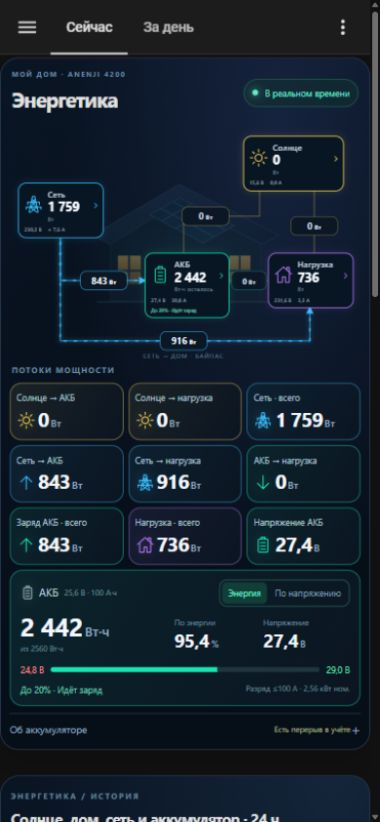
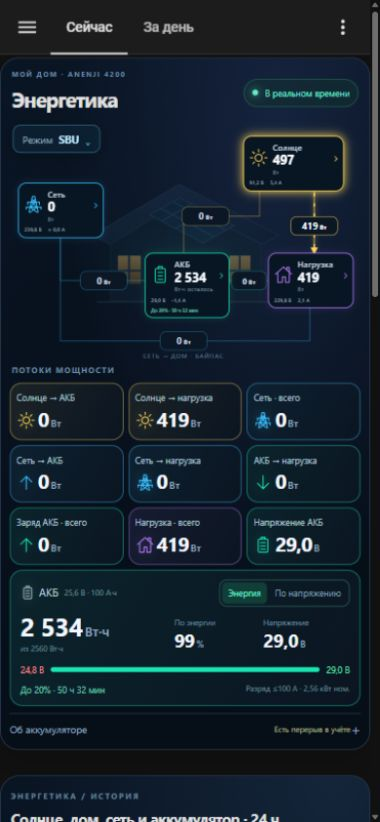
Add inverter priority picker and ANENJI mode metadata

diff --git a/energetika-card.js b/energetika-card.js
@@ -1,4 +1,4 @@
-import './energetika-history.js?v=2.2.2';
+import './energetika-history.js?v=2.3.0';
 
 export function formatRuntime(minutes) {
   if (!Number.isFinite(minutes) || minutes < 0) return '—';
@@ -7,11 +7,21 @@ export function formatRuntime(minutes) {
 }
 /* Energetika 2.2 — local Home Assistant card, no external dependencies. */
 const ROOT = 'sensor.anenji_4200_protocol_1_';
+const SOURCE_MODES = [
+  {code:'UTI', option:'Utility First (UTI)', description:'Сеть в приоритете'},
+  {code:'SOL', option:'Solar First (SOL)', description:'Солнце в приоритете'},
+  {code:'SBU', option:'Solar-Battery-Utility (SBU)', description:'Солнце → АКБ → сеть'},
+  {code:'SUB', option:'Solar-Utility-Battery (SUB)', description:'Солнце → сеть → АКБ'},
+  {code:'SUF', option:'Solar-Utility-Feed (SUF)', description:'Солнце + сеть · возможна отдача в сеть'},
+];
+const escapeHtml = value => String(value??'').replace(/[&<>"']/g,c=>({'&':'&amp;','<':'&lt;','>':'&gt;','"':'&quot;',"'":'&#39;'}[c]));
 const ENTITIES = {
   grid_voltage: ROOT + 'grid_voltage', grid_current: 'sensor.energetika_grid_current_estimate',
   solar_voltage: ROOT + 'pv_voltage', solar_current: ROOT + 'pv_current',
   load_voltage: ROOT + 'output_voltage', load_current: ROOT + 'output_current',
   runtime: 'sensor.energetika_battery_runtime_to_reserve',
+  mode_select: 'select.anenji_4200_protocol_1_output_source_priority',
+  output_priority: ROOT + 'output_source_priority', control_mode: ROOT + 'control_mode',
   grid: ROOT + 'grid_power', solar: ROOT + 'pv_power', load: ROOT + 'load_power',
   battery: 'sensor.energetika_battery_remaining', percent: 'sensor.energetika_battery_percent_energy',
   voltage: ROOT + 'battery_voltage', voltage_min: ROOT + 'battery_under_voltage_off_grid',
@@ -52,6 +62,7 @@ class EnergetikaCard extends HTMLElement {
   getGridOptions() { return {columns: 12, min_columns: 6}; }
   set hass(hass) { this._hass = hass; this._update(); }
   connectedCallback() { if (!this.shadowRoot.firstChild) this._render(); }
+  disconnectedCallback() { clearTimeout(this._modeTimeout); }
   _node(key, name, ic, x, y, w, color, unit = 'Вт') {
     return `<g class="node ${color}" data-key="${key}" role="button" tabindex="0" aria-label="${name}: открыть историю" transform="translate(${x} ${y})">
       <rect class="node-bg" width="${w}" height="${key === 'battery' ? 132 : 112}" rx="16"/>
@@ -86,8 +97,11 @@ class EnergetikaCard extends HTMLElement {
       @media(max-width:520px){.shell{padding:11px 9px 8px;border-radius:19px}.tiles{grid-template-columns:repeat(3,minmax(0,1fr));gap:5px}.tile{position:relative;padding:7px 6px;min-height:59px;border-radius:12px;display:block}.tile>.icon{position:absolute;width:18px;height:21px;left:7px;bottom:9px}.tile-body{gap:6px}.tile-title{font-size:9px;line-height:1.2;white-space:nowrap;color:#adc4d3}.tile-body strong{font-size:20px;padding-left:22px;line-height:1.1}.tile-body strong.long-value{font-size:16px}.unit{margin-left:2px}.diagram{margin:0 auto;width:100%;max-height:255px}.section-label{font-size:8px;margin:1px 2px 6px;letter-spacing:1.3px}h1{font-size:21px}.eyebrow{font-size:7px;letter-spacing:1.5px}.live{font-size:9px}.battery-summary{display:block;grid-column:1/-1;grid-row:4;padding:9px 10px;border-radius:13px;min-height:0}.battery-top{margin-bottom:6px;gap:4px}.battery-title{font-size:11px;gap:4px}.battery-title .icon{width:15px;height:19px}.nameplate{font-size:8px;margin-left:2px}.mode-switch button{font-size:9px;padding:4px 6px}.battery-layout{grid-template-columns:1.35fr .75fr .8fr;gap:8px}.battery-main .plain-value strong{font-size:26px}.battery-main .capacity{font-size:8px;margin-top:1px}.battery-layout .mini>span{font-size:8px}.battery-layout .mini strong{font-size:18px}.voltage-limits{margin-top:7px;font-size:9px;gap:7px}.battery-bottom{margin-top:6px;font-size:8px;gap:4px}.battery-bottom .runtime{font-size:9px}.battery-spec{font-size:8px}.note{display:none}details{margin-top:7px;padding-top:4px;font-size:10px}summary::after{font-size:15px}footer{display:none}.calibration{font-size:9px;line-height:1.3;padding:4px 7px;margin-top:5px}.last-full{display:block;margin:8px 0}.main-status{font-size:8px}}
       @media(max-width:365px){.shell{padding:8px 7px}.tile-title{font-size:8px}.tile-body strong{font-size:18px}.tile{min-height:55px}.diagram{max-height:225px}.nameplate{font-size:7px}.mode-switch button{padding:4px;font-size:8px}.battery-main .plain-value strong{font-size:23px}.battery-layout .mini strong{font-size:16px}.battery-title{font-size:10px}.battery-spec{font-size:7px}.battery-layout{gap:5px}.battery-bottom .runtime{font-size:8px}}
       @media(max-width:520px) and (max-height:740px){.shell{padding-top:8px}.diagram{max-height:200px}.tile{min-height:52px;padding:6px}.tile-body{gap:4px}.battery-summary{padding:8px 9px}.battery-top{margin-bottom:4px}.voltage-limits{margin-top:5px}.battery-bottom{margin-top:4px}.calibration{font-size:8px}}
+      .diagram-wrap{position:relative}.inverter-mode{position:absolute;left:5px;top:8px;z-index:4}.source-trigger{display:flex;align-items:center;gap:9px;border:1px solid #2b5972;background:#0b2032ed;border-radius:10px;padding:8px 11px;font-size:12px;color:#89a7bb;min-height:33px;box-shadow:0 3px 14px #0003}.source-trigger strong{color:#bde9ff;font-size:13px}.source-trigger .caret{color:#51b9df}.source-trigger[aria-expanded=true]{border-color:#38bfff}.mode-popover{position:absolute;left:0;top:42px;width:min(310px,calc(100vw - 36px));padding:13px;border:1px solid #335c75;border-radius:17px;background:#0b1929fa;box-shadow:0 15px 45px #000a;color:#d8e7f3;backdrop-filter:blur(16px)}.mode-popover[hidden]{display:none}.mode-heading{display:flex;align-items:center;justify-content:space-between;font-size:13px;font-weight:650;margin-bottom:10px}.mode-close{background:none;border:0;color:#93adbf;font-size:21px;padding:0 4px}.source-options{display:grid;gap:5px}.source-option{display:grid;grid-template-columns:44px 1fr 12px;align-items:center;gap:8px;border:1px solid #263e52;background:#101f31;border-radius:9px;padding:9px 10px;text-align:left;color:#abc1d2;font-size:11px;min-height:41px}.source-option strong{color:#e6f4ff;font-size:13px}.source-option[aria-selected=true]{border-color:#29c8c5;background:#123c3e}.source-option:disabled{cursor:default;opacity:.6}.source-option .check{color:#36dfb8}.mode-message{font-size:10px;line-height:1.5;color:#8eabbf;margin:9px 0;min-height:15px}.mode-message.error{color:#f1a094}.mode-message.success{color:#65dfb8}.mode-apply{width:100%;border:1px solid #298d9c;background:#12434e;color:#a1eff4;border-radius:9px;padding:9px;font-size:11px;font-weight:600}.mode-apply:disabled{opacity:.4;cursor:default}.mode-note{font-size:10px;line-height:1.4;color:#a6b9c7;margin:0 0 8px}.source-option small{font-size:10px;color:#83a3b7}.mode-message:empty{display:none}
+      @media(max-width:520px){.inverter-mode{left:3px;top:5px}.source-trigger{font-size:10px;padding:5px 9px;gap:6px;min-height:28px;border-radius:8px}.source-trigger strong{font-size:11px}.mode-popover{top:34px;padding:11px}.source-option{padding:8px 9px;font-size:10px;min-height:39px}.mode-heading{font-size:12px}.mode-message{font-size:10px}}
     </style>
     <ha-card class="shell"><header><div><div class="eyebrow">МОЙ ДОМ · ANENJI 4200</div><h1>Энергетика</h1><div class="sub">Солнце, сеть и энергия вашего дома</div></div><span class="live" data-live><span class="dot"></span><span data-live-text>Подключение</span></span></header>
+    <div class="diagram-wrap"><div class="inverter-mode"><button class="source-trigger" data-source-open aria-haspopup="dialog" aria-expanded="false"><span>Режим</span><strong data-source-current>—</strong><span class="caret">⌄</span></button><div class="mode-popover" data-source-popover role="dialog" aria-label="Режим питания инвертора" hidden><div class="mode-heading">Приоритет питания<button class="mode-close" data-source-close aria-label="Закрыть выбор режима">×</button></div><div class="source-options" data-source-options role="listbox" aria-label="Доступные режимы"></div><div class="mode-message" data-source-message role="status"></div><p class="mode-note" data-source-note hidden>Переключение изменит источник питания дома.</p><button class="mode-apply" data-source-apply disabled>Применить режим</button></div></div>
     <svg class="diagram" viewBox="0 0 720 500" aria-label="Схема потоков энергии">
       <defs>${['solar','grid','battery'].map(c=>`<marker id="arrow-${c}" markerWidth="5" markerHeight="5" refX="4" refY="2.5" orient="auto"><path d="M0 0 5 2.5 0 5Z" fill="var(--${c})"/></marker>`).join('')}
       <linearGradient id="roof" x2="1" y2="1"><stop stop-color="#284361"/><stop offset="1" stop-color="#0c1829"/></linearGradient><linearGradient id="window" x2="0" y2="1"><stop stop-color="#ffc65e"/><stop offset="1" stop-color="#8e5b21"/></linearGradient><radialGradient id="halo"><stop stop-color="#22a891" stop-opacity=".12"/><stop offset="1" stop-color="#081421" stop-opacity="0"/></radialGradient></defs>
@@ -103,7 +117,7 @@ class EnergetikaCard extends HTMLElement {
       ${this._node('solar','Солнце','sun',480,34,205,'solar')}
       ${this._node('battery','АКБ','battery',278,274,172,'battery','Вт·ч осталось')}
       ${this._node('load','Нагрузка','home',531,274,174,'home')}
-    </svg>
+    </svg></div>
     <div class="section-label">ПОТОКИ МОЩНОСТИ <span style="color:#3f5e76">/ НАЖМИТЕ НА ЧИСЛО ДЛЯ ИСТОРИИ</span></div>
     <div class="tiles">
       ${this._tile('pv_battery','Солнце → АКБ','Заряд от солнечных панелей','sun','solar')}
@@ -136,6 +150,11 @@ class EnergetikaCard extends HTMLElement {
       try { localStorage.setItem('energetika.battery-mode',this._batteryMode); } catch {}
       this._update();
     }));
+    root.querySelector('[data-source-open]').addEventListener('click',()=>this._toggleSourceMenu());
+    root.querySelector('[data-source-close]').addEventListener('click',()=>this._closeSourceMenu());
+    root.querySelector('[data-source-apply]').addEventListener('click',()=>this._applySourceMode());
+    root.addEventListener('keydown',event=>{if(event.key==='Escape')this._closeSourceMenu();});
+    root.addEventListener('click',event=>{if(!event.composedPath().includes(root.querySelector('.inverter-mode')))this._closeSourceMenu(false);});
     root.querySelector('[data-calibrate]').addEventListener('click',()=>this._calibrate());
     this._update();
   }
@@ -150,6 +169,7 @@ class EnergetikaCard extends HTMLElement {
   _update() {
     if (!this._hass || !this.shadowRoot.firstChild) return;
     const r = this.shadowRoot, states = this._hass.states;
+    this._updateSourceMode();
     r.querySelectorAll('[data-value]').forEach(el=>{
       const key=el.dataset.value,n=this._number(key);
       const digits=/voltage|current|percent/.test(key)?1:0;
@@ -190,6 +210,80 @@ class EnergetikaCard extends HTMLElement {
     r.querySelector('[data-last-full]').textContent=last?`Последний полный заряд: ${new Date(last).toLocaleString('ru-RU',{day:'2-digit',month:'2-digit',hour:'2-digit',minute:'2-digit'})}`:'Полный заряд ещё не подтверждён';
     const updated=states[this._entities.load]?.last_updated;
     r.querySelector('[data-updated]').textContent=updated?`Данные · ${new Date(updated).toLocaleTimeString('ru-RU')}`:'Ожидание данных';
+  }
+  _sourceContext() {
+    const states=this._hass?.states||{},entity=this._entities.mode_select,native=states[entity];
+    const available=native&&!['unknown','unavailable',''].includes(native.state);
+    const current=available?native.state:states[this._entities.output_priority]?.state;
+    const options=Array.isArray(native?.attributes?.options)?native.attributes.options.filter(v=>typeof v==='string'):[];
+    let reason='';
+    if(this._hass?.connected===false)reason='Нет соединения с Home Assistant.';
+    else if(states[this._entities.control_mode]?.state==='read_only')reason='В EyeBond Local включён режим «Только чтение». Выбор пока недоступен.';
+    else if(!available)reason='Управление режимом пока недоступно в интеграции.';
+    return {entity,current,options,reason,writable:!reason&&typeof this._hass?.callService==='function'};
+  }
+  _sourceCode(option) {
+    const found=SOURCE_MODES.find(mode=>mode.option===option||mode.code===option);
+    if(found)return found.code;
+    const legacy={'Utility-PV-Battery':'UTI','PV-Utility-Battery':'SOL','PV-Battery-Utility':'SBU'};
+    if(legacy[option])return legacy[option];
+    const unknown=/^Unknown \((\d)\)$/.exec(option||'');
+    if(unknown&&SOURCE_MODES[Number(unknown[1])])return SOURCE_MODES[Number(unknown[1])].code;
+    return ['unknown','unavailable','',undefined].includes(option)?'Нет данных':option;
+  }
+  _toggleSourceMenu() {
+    const popover=this.shadowRoot.querySelector('[data-source-popover]');
+    if(!popover.hidden){this._closeSourceMenu();return;}
+    this._sourceDraft=this._sourceContext().current;this._sourceFeedback=null;
+    popover.hidden=false;this.shadowRoot.querySelector('[data-source-open]').setAttribute('aria-expanded','true');
+    this._updateSourceMode();
+    this.shadowRoot.querySelector('.source-option:not(:disabled)')?.focus();
+  }
+  _closeSourceMenu(focus=true) {
+    const popover=this.shadowRoot.querySelector('[data-source-popover]');
+    if(popover.hidden)return;
+    popover.hidden=true;const button=this.shadowRoot.querySelector('[data-source-open]');button.setAttribute('aria-expanded','false');
+    if(focus)button.focus();
+  }
+  _updateSourceMode() {
+    const r=this.shadowRoot,context=this._sourceContext();
+    r.querySelector('[data-source-current]').textContent=this._modePending?'Переключение…':this._sourceCode(context.current);
+    if(this._modePending&&context.current===this._modePending.option){
+      clearTimeout(this._modeTimeout);this._modePending=null;this._sourceFeedback={kind:'success',text:'Инвертор подтвердил режим '+this._sourceCode(context.current)+'.'};
+      r.querySelector('[data-source-current]').textContent=this._sourceCode(context.current);
+    }
+    if(r.querySelector('[data-source-popover]').hidden)return;
+    const rows=SOURCE_MODES.map(mode=>({...mode,enabled:context.writable&&context.options.includes(mode.option)}));
+    for(const option of context.options)if(!rows.some(row=>row.option===option))rows.push({code:this._sourceCode(option),option,description:option,enabled:context.writable});
+    const signature=JSON.stringify([rows,this._sourceDraft,context.current,!!this._modePending]);
+    if(signature!==this._modeRows){
+      this._modeRows=signature;
+      r.querySelector('[data-source-options]').innerHTML=rows.map((row,index)=>`<button class="source-option" data-source-index="${index}" role="option" aria-selected="${row.option===this._sourceDraft}" ${!row.enabled||this._modePending?'disabled':''}><strong>${escapeHtml(row.code)}</strong><span>${escapeHtml(row.description)}</span><span class="check">${row.option===context.current?'✓':''}</span></button>`).join('');
+      r.querySelectorAll('[data-source-index]').forEach(button=>button.addEventListener('click',()=>{this._sourceDraft=rows[Number(button.dataset.sourceIndex)].option;this._sourceFeedback=null;this._updateSourceMode();}));
+    }
+    const message=r.querySelector('[data-source-message]');
+    message.className='mode-message '+(this._sourceFeedback?.kind||'');
+    message.textContent=this._modePending?'Ожидание подтверждения инвертора…':context.reason||this._sourceFeedback?.text||'';
+    const note=r.querySelector('[data-source-note]');
+    note.hidden=!context.writable||this._sourceDraft===context.current;
+    note.textContent=this._sourceCode(this._sourceDraft)==='SUF'?'SUF допускает отдачу избытка энергии в сеть.':'Переключение изменит источник питания дома.';
+    const apply=r.querySelector('[data-source-apply]');
+    apply.disabled=!context.writable||!!this._modePending||!context.options.includes(this._sourceDraft)||this._sourceDraft===context.current;
+    apply.textContent=this._modePending?'Переключение…':'Применить '+this._sourceCode(this._sourceDraft||context.current);
+  }
+  async _applySourceMode() {
+    const context=this._sourceContext(),option=this._sourceDraft;
+    if(!context.writable||this._modePending||!context.options.includes(option)||option===context.current)return;
+    this._modePending={option};this._sourceFeedback=null;this._updateSourceMode();
+    this._modeTimeout=setTimeout(()=>{if(!this._modePending)return;this._modePending=null;this._sourceFeedback={kind:'error',text:'Подтверждение не получено. Проверьте текущий режим перед повтором.'};this._updateSourceMode();},15000);
+    try {
+      await this._hass.callService('select','select_option',{entity_id:context.entity,option});
+      this._updateSourceMode();
+    }catch(error){
+      clearTimeout(this._modeTimeout);this._modePending=null;
+      this._sourceFeedback={kind:'error',text:'Режим не подтверждён. '+String(error?.message||'Проверьте соединение с инвертором.')};
+      this._updateSourceMode();
+    }
   }
   _moreInfo(key) {
     const entityId=this._entities[key];if(!entityId)return;

diff --git a/patches/install_modes.py b/patches/install_modes.py
@@ -1,0 +1,75 @@
+"""Backport output-priority names to the installed EyeBond Local 0.1.53 model.
+
+Only model metadata is changed. No control policy or inverter register is written.
+Codes 0..3 follow current upstream SMG schema. Code 4 (SUF) is confirmed in
+this owner's LCD menu and upstream SmartESS 0925 profile, plus ANENJI manual.
+"""
+import argparse
+from datetime import datetime, timezone
+import hashlib
+import json
+from pathlib import Path
+import shutil
+
+LABELS = ["Utility First (UTI)", "Solar First (SOL)", "Solar-Battery-Utility (SBU)", "Solar-Utility-Battery (SUB)", "Solar-Utility-Feed (SUF)"]
+DESCRIPTIONS = ["Utility powers the load first.", "Solar powers the load first.", "Solar, then battery, then utility.", "Solar, then utility, then battery.", "Solar and utility; surplus solar may feed into the grid."]
+
+
+def replacements(base):
+    profile = "profiles/modbus_smg/models/anenji_4200_protocol_1.variant.json"
+    schema = "register_schemas/modbus_smg/models/anenji_4200_protocol_1.json"
+    result = {}
+    for relative in [profile, schema]:
+        original = (base / relative).read_text(encoding="utf-8")
+        doc = json.loads(original)
+        if relative == profile:
+            doc["capabilities"] = [{"key": "output_source_priority", "choices": [
+                {"value": code, "label": label, "order": code, "description": DESCRIPTIONS[code]}
+                for code, label in enumerate(LABELS)
+            ]}]
+        else:
+            doc["enum_tables"] = {"output_source_priority": {str(i): name for i, name in enumerate(LABELS)}}
+        result[relative] = (original, json.dumps(doc, ensure_ascii=False, indent=2) + "\n")
+    return result
+
+
+# SHA-256 of the normalized UTF-8 source from tag v0.1.53.
[1 lines of base64/hex data omitted]
+
+
+def install(config):
+    root = Path(config).resolve(strict=True)
+    if not (root / "configuration.yaml").is_file():
+        raise SystemExit("Not a Home Assistant configuration directory")
+    base = root / "custom_components/eybond_local"
+    changes = {}
+    for relative, (original, updated) in replacements(base).items():
+        path = base / relative
+        if path.is_symlink():
+            raise SystemExit("Refusing symlink: " + str(path))
+        if original == updated:
+            continue
+        if hashlib.sha256(original.encode()).hexdigest() != EXPECTED[relative]:
+            raise SystemExit("Unexpected source version; no files modified: " + relative)
+        changes[path] = updated
+    if not changes:
+        print("Mode metadata already installed; no changes")
+        return
+    backup = root / ("energetika-mode-backup-" + datetime.now(timezone.utc).strftime("%Y%m%dT%H%M%SZ"))
+    backup.mkdir()
+    for path in changes:
+        destination = backup / path.relative_to(root)
+        destination.parent.mkdir(parents=True, exist_ok=True)
+        shutil.copy2(path, destination)
+    for path, updated in changes.items():
+        temporary = path.with_suffix(path.suffix + ".energetika-tmp")
+        temporary.write_text(updated, encoding="utf-8")
+        temporary.replace(path)
+    print("Mode metadata installed; backup:", backup)
+    print("Restart Home Assistant to clear metadata caches. Control policy is unchanged.")
+
+
+if __name__ == "__main__":
+    parser = argparse.ArgumentParser(description=__doc__)
+    parser.add_argument("--config", required=True)
+    install(parser.parse_args().config)

diff --git a/build_deploy.py b/build_deploy.py
@@ -4,7 +4,7 @@ import base64
 import json
 import zlib
 
-files = {name:Path(name).read_text(encoding='utf-8') for name in ['energetika.yaml','energetika-card.js','energetika-history.js','patches/install_guard.py','patches/telemetry_guard.py']}
+files = {name:Path(name).read_text(encoding='utf-8') for name in ['energetika.yaml','energetika-card.js','energetika-history.js','patches/install_guard.py','patches/telemetry_guard.py','patches/install_modes.py']}
 payload=base64.b64encode(zlib.compress(json.dumps(files,ensure_ascii=False).encode(),9)).decode()
 source='''"""Offline Energetika v2 installer. Back up first; no inverter commands."""
 from pathlib import Path
@@ -22,12 +22,16 @@ def main():
     files=json.loads(zlib.decompress(base64.b64decode(PAYLOAD)))
     stage=root/'energetika-install-v2'
     stage.mkdir(exist_ok=True)
-    for name in ['install_guard.py','telemetry_guard.py']:
+    for name in ['install_guard.py','telemetry_guard.py','install_modes.py']:
         (stage/name).write_text(files['patches/'+name],encoding='utf-8')
     spec=importlib.util.spec_from_file_location('install_guard',stage/'install_guard.py')
     module=importlib.util.module_from_spec(spec)
     spec.loader.exec_module(module)
     module.install(root)
+    mode_spec=importlib.util.spec_from_file_location('install_modes',stage/'install_modes.py')
+    mode_module=importlib.util.module_from_spec(mode_spec)
+    mode_spec.loader.exec_module(mode_module)
+    mode_module.install(root)
     backup=root/('energetika-ui-backup-'+datetime.now(timezone.utc).strftime('%%Y%%m%%dT%%H%%M%%SZ'))
     backup.mkdir()
     for name,destination in [('energetika.yaml','energetika.yaml'),('energetika-card.js','www/energetika-card.js'),('energetika-history.js','www/energetika-history.js')]:
@@ -42,7 +46,7 @@ def main():
         temporary.write_text(files[name],encoding='utf-8')
         temporary.replace(path)
     print('UI and YAML installed; backup:',backup)
-    print('Restart Home Assistant; update resource URL to /local/energetika-card.js?v=2.2.2')
+    print('Restart Home Assistant; update resource URL to /local/energetika-card.js?v=2.3.0')
 if __name__=='__main__': main()
 ''' % payload
 Path('.deploy').mkdir(exist_ok=True)

diff --git a/docs/INSTALL.uk.md b/docs/INSTALL.uk.md
@@ -33,7 +33,7 @@ homeassistant:
 
 Не створюйте другу секцію `homeassistant`. Якщо пакети вже підключені каталогом, скористайтеся наявною схемою.
 
-Скопіюйте **обидва** файли `energetika-card.js` і `energetika-history.js` до `www`. Головна картка імпортує історію відносним шляхом. У Налаштування → Інформаційні панелі → Ресурси додайте `/local/energetika-card.js?v=2.2.2`, тип **Модуль JavaScript**. Другий ресурс окремо не потрібен.
+Скопіюйте **обидва** файли `energetika-card.js` і `energetika-history.js` до `www`. Головна картка імпортує історію відносним шляхом. У Налаштування → Інформаційні панелі → Ресурси додайте `/local/energetika-card.js?v=2.3.0`, тип **Модуль JavaScript**. Другий ресурс окремо не потрібен.
 
 При першому створенні `www` може знадобитися перезапуск. Перевірте конфігурацію через інструменти YAML перед перезапуском.
 
@@ -69,7 +69,7 @@ python3 install_guard.py --config /homeassistant
 
 При розбіжності версії **не вимикайте перевірку SHA-256**. Попросіть Codex перенести мінімальний патч на фактичну версію з аналізом драйвера та координатора.
 
-Патч також дозволяє моніторинг для стабільного значення `Unknown (3)` пріоритету виходу цього профілю, зберігаючи всі якорі ідентифікації. Це не підтвердження функції режиму 3 і не дозвіл записувати його в інвертор.
+Патч також дозволяє моніторинг для стабільного значення `Unknown (3)` пріоритету виходу цього профілю, зберігаючи всі якорі ідентифікації. Окремий патч метаданих тепер декодує цей код як SUB; дозвіл на запис налаштовується незалежно.
 
 Межі валідатора: навантаження до 8400 Вт, PV до 5400 Вт, мережа ±11000 Вт, AC 0–300 В, батарея 0–40 В, PV 0–500 В. Це межі відбракування телеметрії із запасом, а не робочі налаштування чи гарантія допустимого режиму обладнання. Інші профілі патч не змінює.
 
@@ -89,3 +89,21 @@ python3 install_guard.py --config /homeassistant
 При зміні JS збільшуйте `?v=` ресурсу та імпорту історії, потім оновлюйте сторінку. Після оновлення EyeBond Local перевірте сумісність патча — він може бути замінений новою версією інтеграції.
 
 Для відкату відновіть `drivers/smg.py` та `runtime/hub.py` із `energetika-backup-*`, YAML/JS із `energetika-ui-backup-*`, поверніть збережений YAML панелі й перезапустіть HA. `drivers/telemetry_guard.py` можна залишити: без імпорту він не впливає на інтеграцію. Базу Recorder не видаляйте.
+
+## Меню режимів живлення
+
+Для цього ANENJI 4200 підтверджені UTI (у повідомленні власника — UEI), SOL, SBU, SUB та SUF. Регістр 301: 0 = UTI, 1 = SOL, 2 = SBU, 3 = SUB, 4 = SUF. Коди 0–3 узгоджені з актуальною схемою автора; SUF = 4 — з його SmartESS-профілем 0925 та меню цього пристрою. На іншій прошивці перевірте відповідність.
+
+```sh
+python3 install_modes.py --config /homeassistant
+```
+
+Скрипт перевіряє SHA-256 двох початкових JSON-файлів моделі у 0.1.53, створює `energetika-mode-backup-<UTC>` і змінює тільки цей профіль та схему. Потім перезапустіть HA для очищення кешу метаданих. Скрипт не надсилає команд інвертору та не змінює політику доступу. Офлайн-інсталятор `build_deploy.py` вже включає цей крок.
+
+Сутності картки: `mode_select` = `select.anenji_4200_protocol_1_output_source_priority`, `output_priority` = сенсор поточного пріоритету, `control_mode` = сенсор режиму керування. Для інших entity_id перевизначте ці ключі в `entities` картки.
+
+У режимі «Тільки читання» вибір заблокований. Для ANENJI 4200 у 0.1.53 параметри інтеграції → «Параметри роботи» → «Режим керування» → «Повний контроль» відкривають запис. Це загальне ручне перевизначення політики EyeBond, а не дозвіл лише для одного меню; потрібна свідома згода власника. Якщо `select` вимкнений у реєстрі, увімкніть саме Output Source Priority в налаштуваннях пристрою.
+
+Оберіть режим і натисніть «Применить». Картка очікує підтвердження інвертора; автоматичних повторів команди немає. Для SUF зазначено віддачу надлишку в мережу. Не перемикайте фізичні режими лише задля перевірки вигляду інтерфейсу.
+
+Для відкату режимів відновіть два JSON-файли зі збереженою структурою каталогів із `energetika-mode-backup-*` і перезапустіть HA. Політика керування повертається окремо через параметри інтеграції.

diff --git a/NOTICE.md b/NOTICE.md
@@ -11,3 +11,5 @@ https://github.com/groove-max/ha-eybond-local-card
 SVG, CSS, графіки та облік АКБ цього проєкту створені окремо за вимогами й ескізом користувача з допомогою Codex. Код і зображення EyeBond Local Card сюди не копіювалися.
 
 Усі файли цього доповнення надаються за MPL-2.0. Повний текст у LICENSE.
+
+Таблиця режимів у `patches/install_modes.py` переносить назви й коди 0–3 з актуальної SMG-схеми groove-max/ha-eybond-local. SUF = 4 узгоджений із його SmartESS-профілем 0925 та підтвердженим меню цього пристрою. Зберігається MPL-2.0; інсталятор змінює лише метадані моделі ANENJI 4200 версії 0.1.53.
